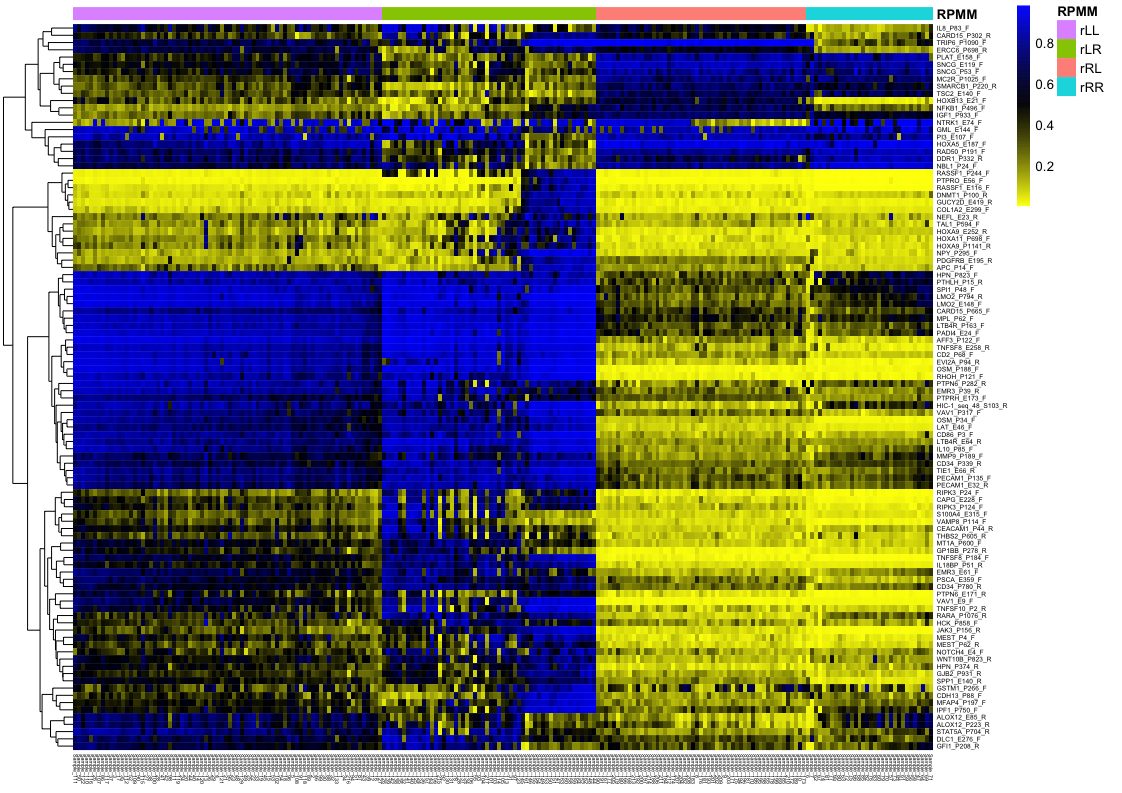
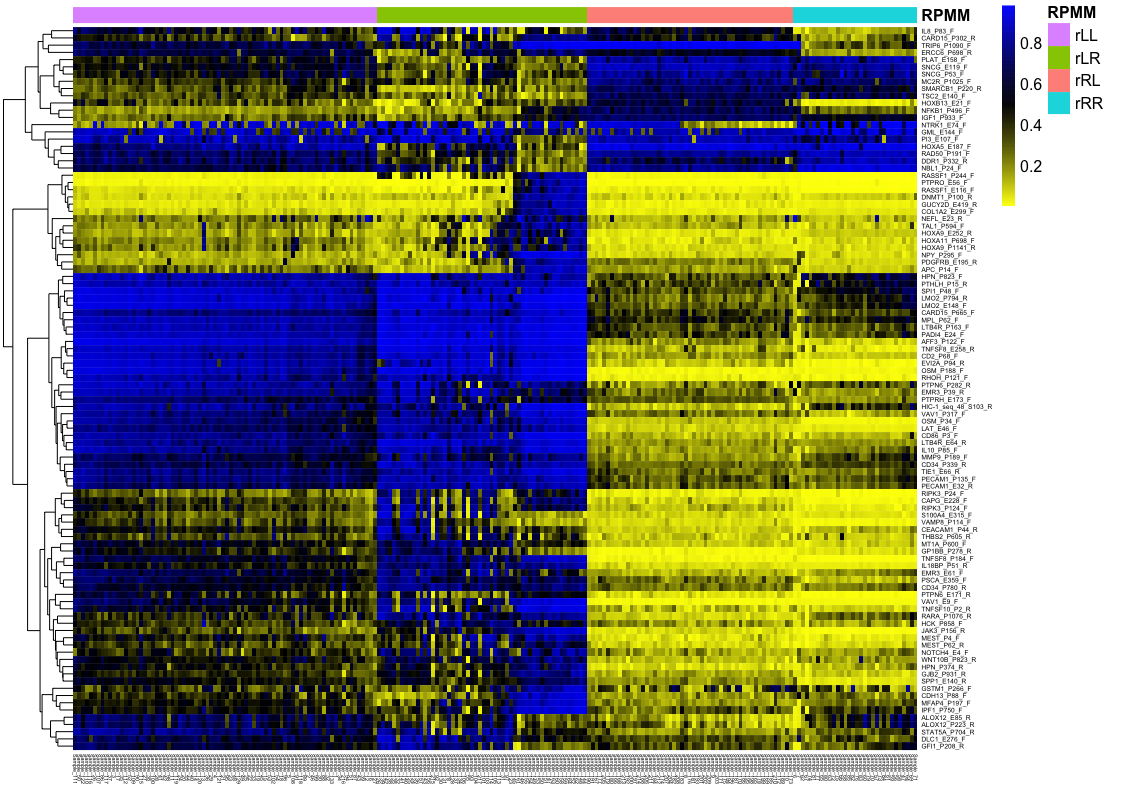
Further updates

diff --git a/RPMM_tutorial/RPMM_tutorial_with_ordered_heat_map.md b/RPMM_tutorial/RPMM_tutorial_with_ordered_heat_map.md
@@ -8,7 +8,7 @@ Motivation
 
 RPMM: Recursively Partitioned Mixture Model is an iterative, unsupervised approach to identify clusters (subgroups) within high-dimensional data. It has been extensively used in analyzing **DNA methylation** of cytosine-phosphate-guanine (CpG) dinucleotides of the mammalian genome.
 
-As the name suggests, RPMM models data using multiple Beta- or Gaussian distributions. The iterative clustering is based on Bayesian Information Criterion (BIC) score and posterior probability (Houseman et al. 2008). Subsequent works of the authors have demonstrated efficient implementation of RPMM and robustness of the approach compared to conventional clustering methods such as K-means. Works of other groups, including the large-scale cohort study The Cancer Genome Atlas (TCGA) project, have applied RPMM for biological discovery.
+As the name suggests, RPMM models data using multiple Beta- or Gaussian distributions. The iterative clustering is based on Bayesian Information Criterion (BIC) score and posterior probability (Houseman et al. 2008). Subsequent works of the authors have demonstrated efficient implementation of RPMM and robustness of the approach compared to conventional clustering methods such as K-means. Works of other groups, including the large-scale cohort study The Cancer Genome Atlas (TCGA), have applied RPMM for biological discovery.
 
 Preparation and Import Packages
 -------------------------------
@@ -183,8 +183,8 @@ all( as.character(unsup_soft$RPMM.hard) == as.character(myHardLabels$RPMM)  )
 
     ## [1] TRUE
 
-Part II (Optional): Enhanced Heat Map Visualization
----------------------------------------------------
+(Optional) Data Visualization of RPMM Results by Specialized Heat Map Packages
+------------------------------------------------------------------------------
 
 While many R packages could be used to draw heat maps, here we choose `pheatmap` as it is rather convenient to use. Other packages such as `heatmap.3` could also be used, though their syntax may vary.
 
@@ -220,7 +220,7 @@ pheatmap(
   border_color = NA,
   fontsize_row = 5,
   fontsize_col = 4,
-  fontsize = 10
+  fontsize = 12 #size of tracking bar & label
 )
 ```
 
